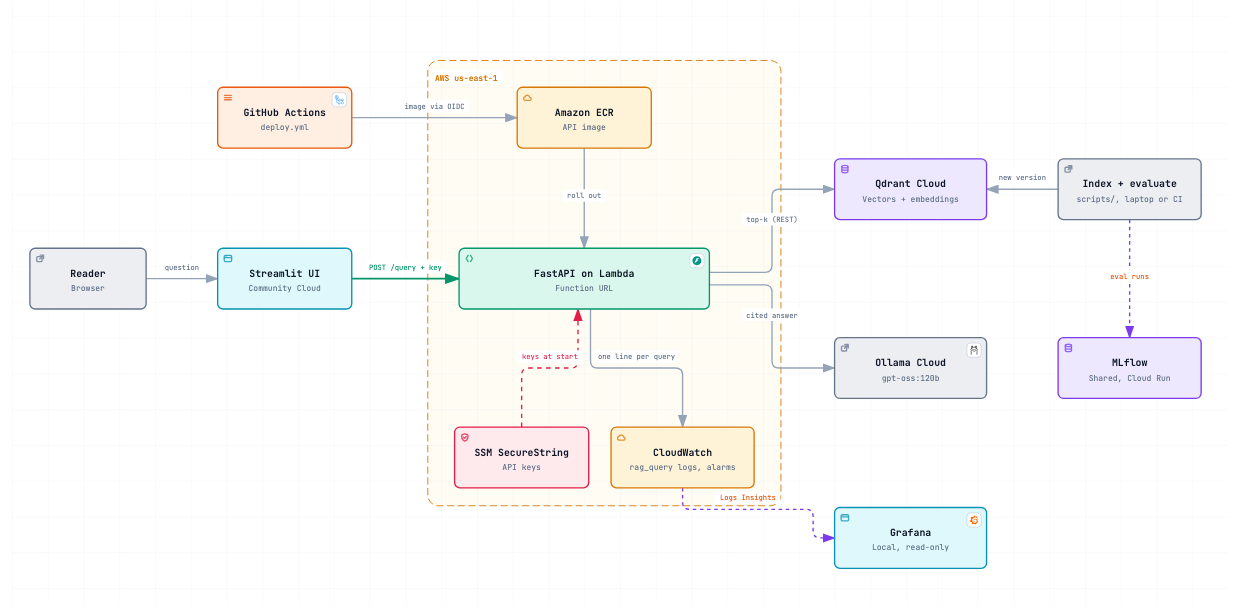
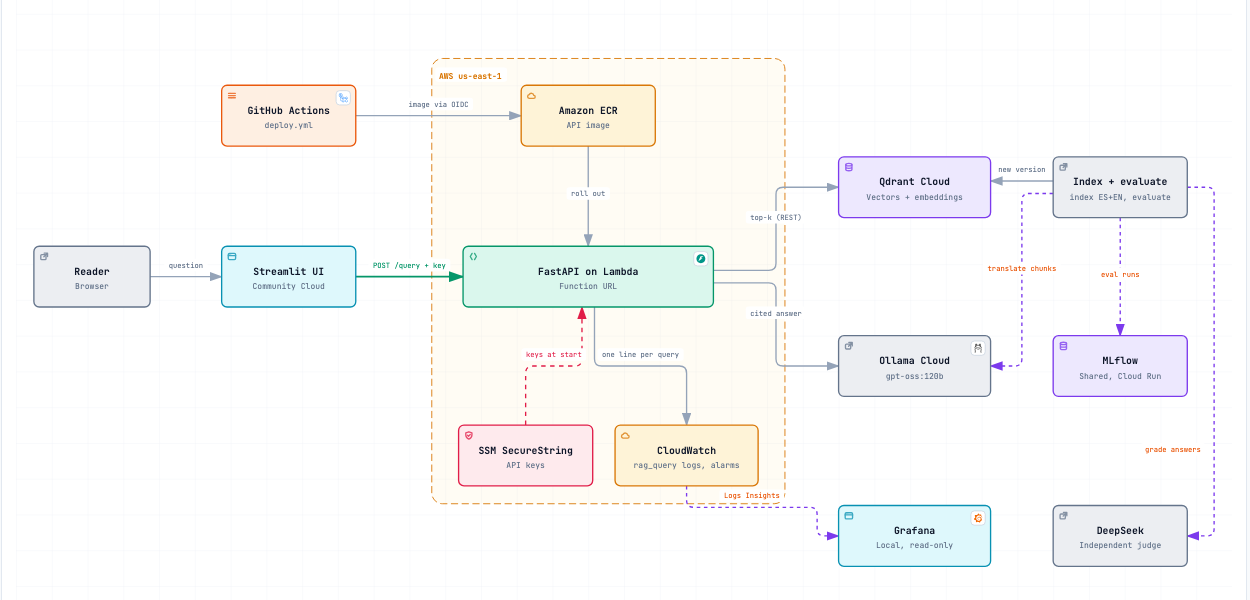
docs: sweep the docs and the architecture diagram for v1.1
The architecture diagram adds the index-time translation (scripts to Ollama) and the independent judge (scripts to DeepSeek); the infra configuration table lists DEEPSEEK_API_KEY and DEEPSEEK_MODEL; CONTRIBUTING asks for a compare.py run on answer changes; README runs compare.py and describes the judge; PLAN records the judge decision. The diagram passes Archify's showcase validation and browser check.

diff --git a/docs/diagrams/architecture.html b/docs/diagrams/architecture.html
@@ -5168,8 +5168,10 @@ OTHER DEALINGS IN THE FONT SOFTWARE.
         <path data-edge-from="logs" data-edge-to="grafana" data-edge-label="Logs Insights" data-edge-key="6" data-edge-id="logs-grafana" data-composition-points="750,568;750,592;896,592;896,624;920,624" d="M 750 568 L 750 584 Q 750 592 758 592 L 888 592 Q 896 592 896 600 L 896 616 Q 896 624 904 624 L 920 624" class="a-dashed" stroke-width="1.5" marker-end="url(#arrowhead-dashed)"/>
         <path data-edge-from="ci" data-edge-to="ecr" data-edge-label="image via OIDC" data-edge-key="7" data-edge-id="ci-ecr" data-composition-points="380,154;565,154" d="M 380 154 L 565 154" class="a-default" stroke-width="1.5" marker-end="url(#arrowhead)"/>
         <path data-edge-from="ecr" data-edge-to="api" data-edge-label="roll out" data-edge-key="8" data-edge-id="ecr-api" data-composition-points="640,188;640,300" d="M 640 188 L 640 300" class="a-default" stroke-width="1.5" marker-end="url(#arrowhead)"/>
-        <path data-edge-from="scripts" data-edge-to="qdrant" data-edge-label="new version" data-edge-key="9" data-edge-id="scripts-qdrant" data-composition-points="1170,234;1090,234" d="M 1170 234 L 1090 234" class="a-default" stroke-width="1.5" marker-end="url(#arrowhead)"/>
-        <path data-edge-from="scripts" data-edge-to="mlflow" data-edge-label="eval runs" data-edge-key="10" data-edge-id="scripts-mlflow" data-composition-points="1250,268;1250,400" d="M 1250 268 L 1250 400" class="a-dashed" stroke-width="1.5" marker-end="url(#arrowhead-dashed)"/>
+        <path data-edge-from="scripts" data-edge-to="qdrant" data-edge-label="new version" data-edge-key="9" data-edge-id="scripts-qdrant" data-composition-points="1160,227;1090,227" d="M 1160 227 L 1090 227" class="a-default" stroke-width="1.5" marker-end="url(#arrowhead)"/>
+        <path data-edge-from="scripts" data-edge-to="mlflow" data-edge-label="eval runs" data-edge-key="10" data-edge-id="scripts-mlflow" data-composition-points="1235,268;1235,400" d="M 1235 268 L 1235 400" class="a-dashed" stroke-width="1.5" marker-end="url(#arrowhead-dashed)"/>
+        <path data-edge-from="scripts" data-edge-to="llm" data-edge-label="translate chunks" data-edge-key="11" data-edge-id="scripts-llm" data-composition-points="1160,241;1125,241;1125,434;1090,434" d="M 1160 241 L 1133 241 Q 1125 241 1125 249 L 1125 426 Q 1125 434 1117 434 L 1090 434" class="a-dashed" stroke-width="1.5" marker-end="url(#arrowhead-dashed)"/>
+        <path data-edge-from="scripts" data-edge-to="judge" data-edge-label="grade answers" data-edge-key="12" data-edge-id="scripts-judge" data-composition-points="1310,234;1340,234;1340,624;1310,624" d="M 1310 234 L 1332 234 Q 1340 234 1340 242 L 1340 616 Q 1340 624 1332 624 L 1310 624" class="a-dashed" stroke-width="1.5" marker-end="url(#arrowhead-dashed)"/>
 
         <!-- Components -->
         <g id="node-user" data-node-id="user" data-node-label="Reader" tabindex="0" role="button" aria-label="Focus Reader, Browser, Architecture component" aria-pressed="false" data-node-kind="external" data-node-sublabel="Browser" data-node-context="Architecture component">
@@ -5315,28 +5317,40 @@ OTHER DEALINGS IN THE FONT SOFTWARE.
         <text data-detail="context" x="1005" y="638" class="t-muted" font-size="9" text-anchor="middle">Local, read-only</text>
         </g>
 
-        <g id="node-scripts" data-node-id="scripts" data-node-label="Index + evaluate" tabindex="0" role="button" aria-label="Focus Index + evaluate, scripts/, laptop or CI, Architecture component" aria-pressed="false" data-node-kind="external" data-node-sublabel="scripts/, laptop or CI" data-node-context="Architecture component">
-          <title>Index + evaluate · scripts/, laptop or CI · Architecture component</title>
-          <rect x="1170" y="200" width="160" height="68" rx="6" class="c-mask"/>
-          <rect x="1170" y="200" width="160" height="68" rx="6" class="c-external" stroke-width="1.5"/>
-          <g aria-hidden="true" data-semantic-sigil="external" class="semantic-sigil s-external" transform="translate(1176 206) scale(0.6875)">
+        <g id="node-scripts" data-node-id="scripts" data-node-label="Index + evaluate" tabindex="0" role="button" aria-label="Focus Index + evaluate, index ES+EN, evaluate, Architecture component" aria-pressed="false" data-node-kind="external" data-node-sublabel="index ES+EN, evaluate" data-node-context="Architecture component">
+          <title>Index + evaluate · index ES+EN, evaluate · Architecture component</title>
+          <rect x="1160" y="200" width="150" height="68" rx="6" class="c-mask"/>
+          <rect x="1160" y="200" width="150" height="68" rx="6" class="c-external" stroke-width="1.5"/>
+          <g aria-hidden="true" data-semantic-sigil="external" class="semantic-sigil s-external" transform="translate(1166 206) scale(0.6875)">
             <rect x="2.5" y="5" width="8.5" height="8" rx="1.5"/>
             <path d="M8 2.5h5.5V8M13.5 2.5 7.5 8.5"/>
           </g>
-          <text data-node-label="" data-detail-anchor="" x="1250" y="232" class="t-primary" font-size="11" font-weight="600" text-anchor="middle">Index + evaluate</text>
-        <text data-detail="context" x="1250" y="248" class="t-muted" font-size="9" text-anchor="middle">scripts/, laptop or CI</text>
+          <text data-node-label="" data-detail-anchor="" x="1235" y="232" class="t-primary" font-size="11" font-weight="600" text-anchor="middle">Index + evaluate</text>
+        <text data-detail="context" x="1235" y="248" class="t-muted" font-size="9" text-anchor="middle">index ES+EN, evaluate</text>
         </g>
 
         <g id="node-mlflow" data-node-id="mlflow" data-node-label="MLflow" tabindex="0" role="button" aria-label="Focus MLflow, Shared, Cloud Run, Architecture component" aria-pressed="false" data-node-kind="database" data-node-sublabel="Shared, Cloud Run" data-node-context="Architecture component">
           <title>MLflow · Shared, Cloud Run · Architecture component</title>
-          <rect x="1170" y="400" width="160" height="68" rx="6" class="c-mask"/>
-          <rect x="1170" y="400" width="160" height="68" rx="6" class="c-database" stroke-width="1.5"/>
-          <g aria-hidden="true" data-semantic-sigil="database" class="semantic-sigil s-database" transform="translate(1176 406) scale(0.6875)">
+          <rect x="1160" y="400" width="150" height="68" rx="6" class="c-mask"/>
+          <rect x="1160" y="400" width="150" height="68" rx="6" class="c-database" stroke-width="1.5"/>
+          <g aria-hidden="true" data-semantic-sigil="database" class="semantic-sigil s-database" transform="translate(1166 406) scale(0.6875)">
             <ellipse cx="8" cy="4" rx="5" ry="2"/>
             <path d="M3 4v8c0 1.1 2.2 2 5 2s5-.9 5-2V4M3 8c0 1.1 2.2 2 5 2s5-.9 5-2"/>
           </g>
-          <text data-node-label="" data-detail-anchor="" x="1250" y="432" class="t-primary" font-size="11" font-weight="600" text-anchor="middle">MLflow</text>
-        <text data-detail="context" x="1250" y="448" class="t-muted" font-size="9" text-anchor="middle">Shared, Cloud Run</text>
+          <text data-node-label="" data-detail-anchor="" x="1235" y="432" class="t-primary" font-size="11" font-weight="600" text-anchor="middle">MLflow</text>
+        <text data-detail="context" x="1235" y="448" class="t-muted" font-size="9" text-anchor="middle">Shared, Cloud Run</text>
+        </g>
+
+        <g id="node-judge" data-node-id="judge" data-node-label="DeepSeek" tabindex="0" role="button" aria-label="Focus DeepSeek, Independent judge, Architecture component" aria-pressed="false" data-node-kind="external" data-node-sublabel="Independent judge" data-node-context="Architecture component">
+          <title>DeepSeek · Independent judge · Architecture component</title>
+          <rect x="1160" y="590" width="150" height="68" rx="6" class="c-mask"/>
+          <rect x="1160" y="590" width="150" height="68" rx="6" class="c-external" stroke-width="1.5"/>
+          <g aria-hidden="true" data-semantic-sigil="external" class="semantic-sigil s-external" transform="translate(1166 596) scale(0.6875)">
+            <rect x="2.5" y="5" width="8.5" height="8" rx="1.5"/>
+            <path d="M8 2.5h5.5V8M13.5 2.5 7.5 8.5"/>
+          </g>
+          <text data-node-label="" data-detail-anchor="" x="1235" y="622" class="t-primary" font-size="11" font-weight="600" text-anchor="middle">DeepSeek</text>
+        <text data-detail="context" x="1235" y="638" class="t-muted" font-size="9" text-anchor="middle">Independent judge</text>
         </g>
 
         <!-- Connection labels -->
@@ -5377,12 +5391,20 @@ OTHER DEALINGS IN THE FONT SOFTWARE.
           <text x="640" y="244" class="t-muted" font-size="8" text-anchor="middle">roll out</text>
         </g>
         <g data-detail="context" data-edge-from="scripts" data-edge-to="qdrant" data-edge-label="new version" data-edge-key="9" data-edge-id="scripts-qdrant">
-          <rect x="1098.6" y="214" width="62.8" height="14" rx="3" class="c-mask"/>
-          <text x="1130" y="224" class="t-muted" font-size="8" text-anchor="middle">new version</text>
+          <rect x="1093.6" y="207" width="62.8" height="14" rx="3" class="c-mask"/>
+          <text x="1125" y="217" class="t-muted" font-size="8" text-anchor="middle">new version</text>
         </g>
         <g data-detail="context" data-edge-from="scripts" data-edge-to="mlflow" data-edge-label="eval runs" data-edge-key="10" data-edge-id="scripts-mlflow">
-          <rect x="1223.4" y="324" width="53.199999999999996" height="14" rx="3" class="c-mask"/>
-          <text x="1250" y="334" class="t-messagebus" font-size="8" text-anchor="middle">eval runs</text>
+          <rect x="1208.4" y="324" width="53.199999999999996" height="14" rx="3" class="c-mask"/>
+          <text x="1235" y="334" class="t-messagebus" font-size="8" text-anchor="middle">eval runs</text>
+        </g>
+        <g data-detail="context" data-edge-from="scripts" data-edge-to="llm" data-edge-label="translate chunks" data-edge-key="11" data-edge-id="scripts-llm">
+          <rect x="1081.6" y="317.5" width="86.8" height="14" rx="3" class="c-mask"/>
+          <text x="1125" y="327.5" class="t-messagebus" font-size="8" text-anchor="middle">translate chunks</text>
+        </g>
+        <g data-detail="context" data-edge-from="scripts" data-edge-to="judge" data-edge-label="grade answers" data-edge-key="12" data-edge-id="scripts-judge">
+          <rect x="1257.8" y="520" width="72.4" height="14" rx="3" class="c-mask"/>
+          <text x="1294" y="530" class="t-messagebus" font-size="8" text-anchor="middle">grade answers</text>
         </g>
 
         <!-- Boundary labels (foreground masks keep routes out of titles) -->
@@ -5609,6 +5631,7 @@ OTHER DEALINGS IN THE FONT SOFTWARE.
         </div>
         <ul>
           <li>&bull; Each reindex is a new collection</li>
+          <li>&bull; Every chunk embedded in Spanish and English</li>
           <li>&bull; Promoted only if recall@k passes</li>
         </ul>
       </div>

diff --git a/README.md b/README.md
@@ -32,14 +32,14 @@ labelled question set, the same model, graded by an independent judge
 
 ## How it works
 
-![Architecture: Streamlit UI calls the Lambda API with a key; the API retrieves from Qdrant Cloud, generates with Ollama Cloud, reads keys from SSM and logs to CloudWatch; GitHub Actions ships the image through ECR](docs/diagrams/architecture.png)
+![Architecture: Streamlit UI calls the Lambda API with a key; the API retrieves from Qdrant Cloud, generates with Ollama Cloud, reads keys from SSM and logs to CloudWatch; GitHub Actions ships the image through ECR; the index and evaluate scripts translate chunks with Ollama, write versions to Qdrant, log runs to MLflow and have answers graded by DeepSeek](docs/diagrams/architecture.png)
 
 Only the API runs in AWS: one Lambda function serving FastAPI through a
 Function URL, with no load balancer or VPC, so nothing is billed while idle
 (about $0.05/month). Everything else lives on free tiers outside AWS: Qdrant
 Cloud stores the vectors and computes the embeddings, Ollama Cloud generates,
-Streamlit Community Cloud hosts the UI and a shared MLflow keeps the
-evaluation runs. Keys sit in an SSM SecureString; every push to `dev` ships a
+Streamlit Community Cloud hosts the UI, a shared MLflow keeps the
+evaluation runs and DeepSeek grades them as an independent judge. Keys sit in an SSM SecureString; every push to `dev` ships a
 new image through GitHub Actions and OIDC, with no stored AWS keys.
 [Interactive version](https://htmlpreview.github.io/?https://github.com/juandsep/document-rag-assistant/blob/main/docs/diagrams/architecture.html) (pan, zoom, trace a path; source in `docs/diagrams/`).
 
@@ -91,7 +91,8 @@ the RAG against the model alone. On 56 questions over 14 documents: recall@3
 
 Requires [uv](https://docs.astral.sh/uv/), Python 3.11, and a `.env` with
 `VECTOR_BACKEND=qdrant`, `QDRANT_URL`, `QDRANT_API_KEY`,
-`OLLAMA_BASE_URL=https://ollama.com` and `OLLAMA_API_KEY` (all variables:
+`OLLAMA_BASE_URL=https://ollama.com` and `OLLAMA_API_KEY`; `DEEPSEEK_API_KEY` only
+for the comparison's judge (all variables:
 [infra/README.md](infra/README.md#configuration)).
 
 ```bash
@@ -101,6 +102,7 @@ uv run ruff check . && uv run ruff format --check .
 
 uv run --env-file .env python scripts/index_docs.py eval/corpus   # prints the version
 uv run --env-file .env python scripts/evaluate.py --chain         # scores what is serving
+uv run --env-file .env python scripts/compare.py                  # RAG vs model alone, DeepSeek judge
 uv run --env-file .env rag                                        # API on http://localhost:8000
 uv run --env-file .env streamlit run src/rag/ui.py                # UI against RAG_API_URL
 ```

diff --git a/PLAN.md b/PLAN.md
@@ -28,6 +28,7 @@ Each phase is one short-lived branch cut from `dev`, one pull request, one conce
 - **Monitoring as in `telegram-personal-assistant`:** CloudWatch collects always (Lambda's built-in metrics are free, Logs Insights queries cost cents) and mails alarms; Grafana runs locally with Docker, read-only, and costs nothing when stopped. Spend comes from the `AWS/Billing` metric plus the LLM cost logged per query.
 - **Lazy clients.** Vector-store, LLM and MLflow clients are built on first use; tests and the Docker build stay green with no environment variables set.
 - **Cross-language retrieval by translating at index time, not hybrid search** (v1.1). On 14 bilingual documents every dense miss was a question in one language about a document in the other. Embedding a translation of each chunk next to the original raised recall@3 from 0.862 to 0.968 at no cost per query. Dense + BM25 (`qdrant/bm25`) lowered recall@3 to 0.71–0.78 under every fusion tried, so it is not used; details in `docs/architecture.md`.
+- **An independent judge** (v1.1). The comparison's answers are graded by DeepSeek `deepseek-flash` through its API, not by the model that wrote them; a fraction of a cent per run. Self-grading agreed on 97% of answers, but the bias it had ran toward its own guesses.
 - **English everywhere** in the repository. `ingest.py` still carries Spanish docstrings and messages; translate it in whichever change next touches it.
 
 ## Success metrics

diff --git a/infra/README.md b/infra/README.md
@@ -151,6 +151,7 @@ git-ignored `.env`.
 | `QDRANT_URL` / `QDRANT_API_KEY` | Qdrant Cloud cluster and its key |
 | `QDRANT_ALIAS` | alias queries go through (default `document-rag`) |
 | `MLFLOW_TRACKING_URI` / `MLFLOW_TRACKING_TOKEN` | shared MLflow server, for offline evaluation runs only (never set on Lambda) |
+| `DEEPSEEK_API_KEY` / `DEEPSEEK_MODEL` | independent judge for `scripts/compare.py` (default `deepseek-flash`); evaluation only, never on Lambda |
 | `OLLAMA_BASE_URL` / `OLLAMA_MODEL` / `OLLAMA_API_KEY` | Ollama endpoint (local default `http://localhost:11434`, deployed `https://ollama.com`), generation model (default `gpt-oss:120b`) and bearer token |
 | `EMBEDDING_MODEL` | embedding model the `local` backend asks Ollama for |
 | `APP_SECRET_PARAMETER` | SecureString whose JSON keys the API copies into its environment at startup (Lambda only; local runs use `.env`) |

diff --git a/CONTRIBUTING.md b/CONTRIBUTING.md
@@ -62,6 +62,9 @@ first, then rewrite history. Deleting the commit is not enough.
   answer/refuse decisions under 0.9; the metrics are in the job summary. For a
   change that needs a reindex, attach a run on the new version
   (`evaluate.py --version <v> --chain`) and its MLflow link.
+- A change meant to improve answers, not only retrieval, also attaches a
+  `scripts/compare.py` run: it is graded by an independent judge (DeepSeek)
+  against the reference answers, and its MLflow runs show both sides.
 - Answers must keep citing their sources; a change that drops citations is a
   regression, not a simplification.
 - Reindexing is idempotent and versioned: a new corpus version gets a new index,
